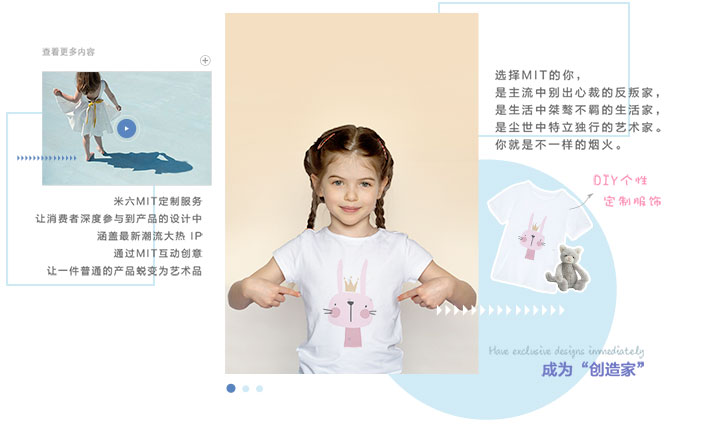
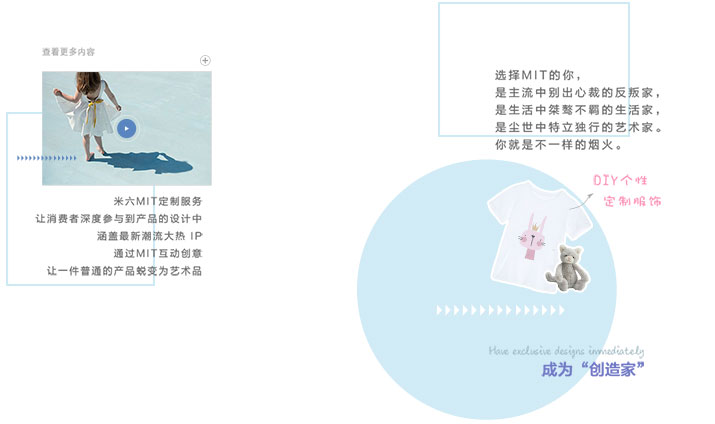
s

Changed region(s): [[0.3077, 0.0307, 0.6769, 0.9198]]

diff --git a/kidstown/index.html b/kidstown/index.html
@@ -44,7 +44,21 @@
 </div>
 
 <div class="mt3"><img src="images/title1.png"> </div>
-<div class="frame mt3"><img src="images/pic2.jpg"> </div>
+<div class="pr">
+    <div id="slider3" class="slider">
+        <div class="swipe-wrap2">
+            <div class="ovh"><img src="images/pic2.jpg"></div>
+            <div class="ovh"><img src="images/pic2.jpg"></div>
+            <div class="ovh"><img src="images/pic2.jpg"></div>
+        </div>
+    </div>
+    <div class="slider-mid" id="sliderMid"><img src="images/pic21.jpg"> </div>
+    <ul class="mitlist">
+        <li class="active"></li>
+        <li></li>
+        <li></li>
+    </ul>
+</div>
 
 
 
@@ -438,21 +452,36 @@
     });
 
     //产品滑动
-//    window.mySwipe3 = new Swipe(document.getElementById('slider3'), {
-//        startSlide: 0,
-//        speed: 400,
-//        auto: 0,
-//        isTouch:false,
-//        continuous: true,
-//        disableScroll: false,
-//        stopPropagation: false
-//    });
-//    $("#btnPrev3").on('click',function(){
-//        mySwipe3.prev();
-//    });
-//    $("#btnNext3").on('click',function(){
-//        mySwipe3.next();
-//    });
+    window.mySwipe3 = new Swipe(document.getElementById('slider3'), {
+        startSlide: 0,
+        speed: 400,
+        auto: 0,
+        isTouch:true,
+        continuous: true,
+        disableScroll: false,
+        stopPropagation: false,
+        transitionEnd:function(index){
+            $(".mitlist li").eq(index).addClass('active').siblings('li').removeClass('active');
+        }
+    });
+    var sx;
+    $("#sliderMid").on('touchstart',function(){
+        if(event.targetTouches.length == 1){
+            var touch = event.targetTouches[0];
+            sx = touch.pageX;
+        }
+    });
+    $("#sliderMid").on('touchend',function(){
+        if(event.changedTouches.length == 1){
+            var touch = event.changedTouches[0];
+            var ex = touch.pageX;
+            if(ex > sx + 100){
+                mySwipe3.prev();
+            }else if(sx > ex + 100){
+                mySwipe3.next();
+            }
+        }
+    });
 
     window.mySwipe4 = new Swipe(document.getElementById('slider4'), {
         startSlide: 0,

diff --git a/kidstown/css/layout.css b/kidstown/css/layout.css
@@ -27,6 +27,11 @@
 .swipe-wrap2 {overflow: hidden;position: relative;}
 .swipe-wrap2 > div {float:left;width:100%;position: relative;}
 .swipe-wrap2 img{ height:100%;}
+.slider-mid{ width: 100%; position: absolute; top: 0; left: 0; z-index: 100;}
+.slider-mid img{ width: 34%; margin: 0 auto;}
+.mitlist{ width: 34%; position: absolute; bottom: 5%; left: 33%;}
+.mitlist li{ width: 4px; height: 4px; border-radius: 50%; background-color: #d1ebf6; float: left; margin-top: 1px; margin-right: 3px;}
+.mitlist li.active{ width: 6px; height: 6px; background-color: #5985c0; margin-top: 0;}
 
 .btn-prev{ position: absolute; top:50%; left: 0; margin-top: -0.42rem;}
 .btn-next{ position: absolute; top:50%; right: 0; margin-top: -0.42rem;}
